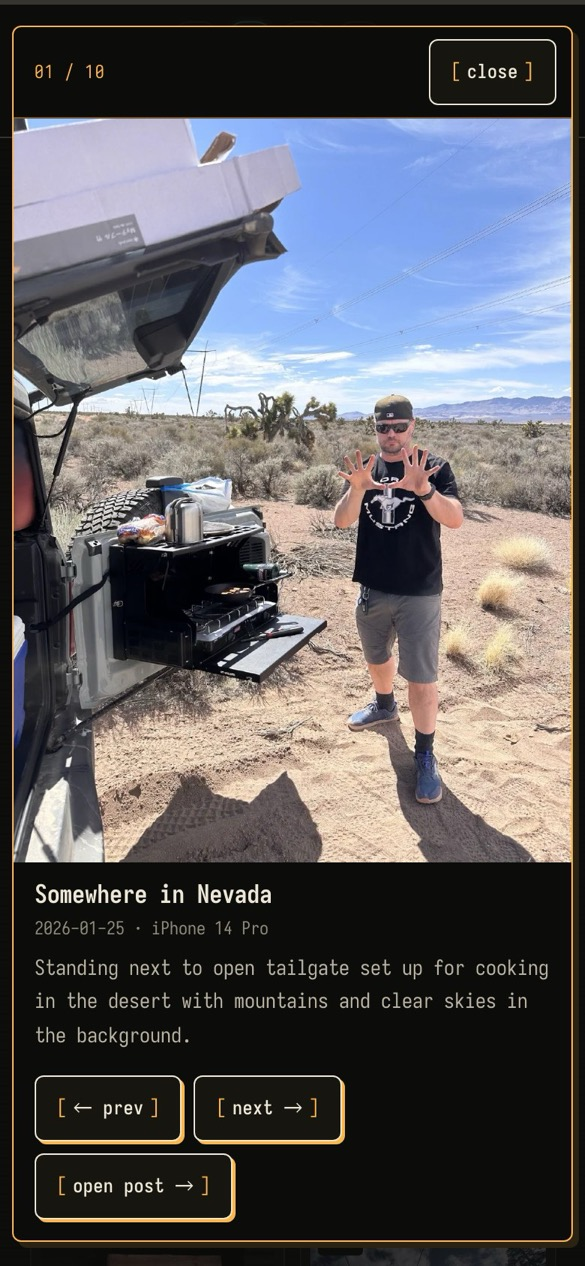
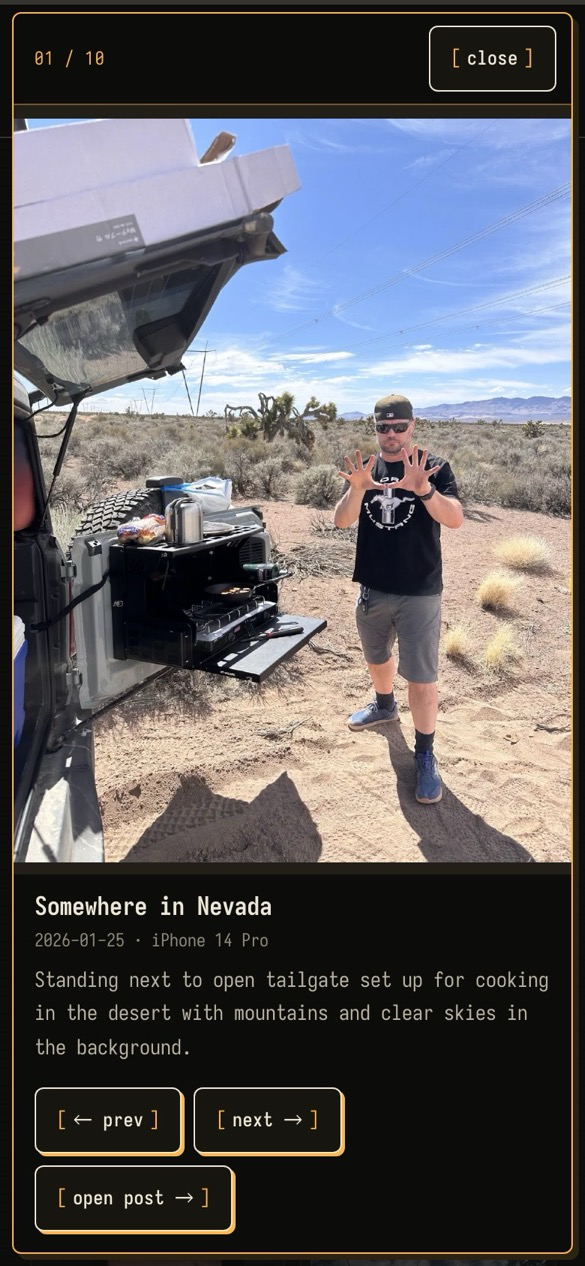
Round-5 fix: lightbox shows the whole photo at any size
The round-3 change capped the image with a percentage of an indefinite
height, so photos overflowed and were cropped. The dialog now has a
definite height and a grid (bar, stage, info, controls); the photo fills
its stage with object-fit: contain; the info row scrolls on its own when
space runs out. ui-check asserts the rendered photo, stage and controls
fit for all 10 photos at 390x844, 640x400 and 1280x800. Review log
updated with round 5.

Changed region(s): [[0.0308, 0.6777, 0.9846, 1.0], [0.0308, 0.0, 0.9846, 0.0924], [0.3077, 0.0616, 0.5538, 0.0924]]

diff --git a/themes/bounds-ascii/assets/css/main.css b/themes/bounds-ascii/assets/css/main.css
@@ -580,10 +580,13 @@ canvas.kc-hero__media, img.is-dithered, canvas.is-dithered { image-rendering: pi
 .kc-hero--animated figcaption { line-height: 1.5; }
 
 /* ---------- LIGHTBOX ---------- */
-.kc-lightbox { width: min(1040px, calc(100vw - 24px)); max-width: none; max-height: calc(100dvh - 24px); margin: auto; padding: 0;
+/* A definite height and a grid: bar, photo stage (takes what's left), info, controls. The photo
+   fills its stage with object-fit: contain, so the whole frame always shows and the controls stay
+   in view. When space runs out (long captions at 200% zoom), the info row scrolls on its own. */
+.kc-lightbox { width: min(1040px, calc(100vw - 24px)); height: calc(100dvh - 24px); max-width: none; max-height: none; margin: auto; padding: 0;
   border: 1px solid var(--sig); border-radius: var(--radius-ui); background: var(--bg-1); color: var(--fg-1);
   box-shadow: 4px 4px 0 0 var(--sig-tint); overflow: auto; overscroll-behavior: contain; }
-.kc-lightbox[open] { display: flex; flex-direction: column; animation: kc-lightbox-in var(--dur-2) var(--ease-out); }
+.kc-lightbox[open] { display: grid; grid-template-rows: auto minmax(100px, 1fr) minmax(0, auto) auto; animation: kc-lightbox-in var(--dur-2) var(--ease-out); }
 .kc-lightbox::backdrop { background: rgba(12, 12, 10, .82); }
 @keyframes kc-lightbox-in { from { opacity: 0; transform: scale(.96); } }
 html.has-lightbox { overflow: hidden; }
@@ -591,14 +594,11 @@ html.has-lightbox { overflow: hidden; }
   border-bottom: 1px solid color-mix(in srgb, var(--sig) 45%, var(--bg-1)); font-size: 12px; color: var(--sig); }
 .kc-lightbox__count { font-variant-numeric: tabular-nums; letter-spacing: .06em; }
 .kc-lightbox__close { margin-left: auto; box-shadow: none; }
-/* The stage shrinks first when space runs out (long captions, zoom), so the controls stay visible. */
-.kc-lightbox__stage { display: flex; align-items: center; justify-content: center; background: var(--bg-3);
-  flex: 1 1 auto; min-height: 80px; overflow: hidden; }
-.kc-lightbox__bar, .kc-lightbox__info, .kc-lightbox__controls { flex: none; }
-.kc-lightbox__img { display: block; width: auto; height: auto; max-width: 100%; max-height: min(100%, calc(100dvh - 260px)); object-fit: contain;
+.kc-lightbox__stage { position: relative; background: var(--bg-3); }
+.kc-lightbox__img { position: absolute; inset: 0; display: block; width: 100%; height: 100%; object-fit: contain;
   transition: opacity var(--dur-2) ease; }
 .kc-lightbox__stage.is-loading .kc-lightbox__img { opacity: .35; }
-.kc-lightbox__info { padding: 12px 14px 4px; }
+.kc-lightbox__info { min-height: 0; overflow: auto; padding: 12px 14px 4px; }
 .kc-lightbox__title { font-size: 17px; text-transform: none; letter-spacing: -.01em; margin: 0 0 2px; }
 .kc-lightbox__meta { font-size: 12px; color: var(--fg-3); margin: 0 0 6px; }
 .kc-lightbox__caption { font-size: 14px; color: var(--fg-2); margin: 0; max-width: 70ch; }
@@ -832,8 +832,7 @@ main:focus-visible { outline: none; }
 }
 
 @media (max-width: 600px) {
-  .kc-lightbox { width: calc(100vw - 16px); max-height: calc(100dvh - 16px); }
-  .kc-lightbox__img { max-height: calc(100dvh - 300px); }
+  .kc-lightbox { width: calc(100vw - 16px); height: calc(100dvh - 16px); }
   .kc-lightbox__controls { gap: 8px; }
   .kc-lightbox__open { margin-left: 0; }
   /* Banner: shrink to fit rather than scroll/clip; harden the wrap. */

diff --git a/docs/design-proposal-2026-10.md b/docs/design-proposal-2026-10.md
@@ -279,3 +279,13 @@ Verdict: "request changes; fix the P1 privacy leak before shipping M4." All coll
 | P3 | Docs: custom parameters aren't visible in Explorations before registration | **Accepted.** Corrected, including the 24–48 hour delay. |
 | P3 | `ui-check`'s lazy-Mapbox assertion was vacuous | **Accepted.** It now asserts zero requests while the map is beyond the 600 px margin, plus a fixture assertion that it is. |
 
+
+### Round 5: verification of the round-3 and round-4 fixes (`54869b0bb..f46834901`)
+
+Verdict: "not ship-ready … until the lightbox regression is fixed." Every other fix passed the reviewer's own reproduction: five search keys on home, post and 404 pages; safe and unsafe `utm_*` values; debug mode; history navigation; system theme updates; plain, modified and middle photo clicks; "top" on posts; tag hit areas; reduced motion turned on mid-visit; and three Mapbox failure modes.
+
+| # | Finding | Decision |
+| --- | --- | --- |
+| 1 | P2: the round-3 lightbox change cropped photos. `max-height: min(100%, …)` resolved against an indefinite stage height, so the image overflowed and was clipped (an 818 px image in a 135 px stage at 640×400) | **Accepted.** The lead's own round-3 check had measured only the controls' position, not the photo, so it missed this. The dialog now has a definite height and a grid layout; the photo fills its stage with `object-fit: contain`; and the info row scrolls on its own when space runs out. `ui-check` now asserts that the whole rendered photo, the stage and the controls fit for all 10 photos at 390×844, 640×400 and 1280×800. |
+
+Two later commits were verified by the lead only, because the review cycle limit had been reached. One is the fix above. The other keeps links inside a base path: literal `"/x/" | relURL` links escaped `/bounds-preview/`, as the existing "all posts" button already did. Verification: production `href`s are byte-identical on 7 sampled pages, the preview has no unprefixed links, and a click-through across nav, chips, entries, back link, footer, pager and brand stays under the prefix.
